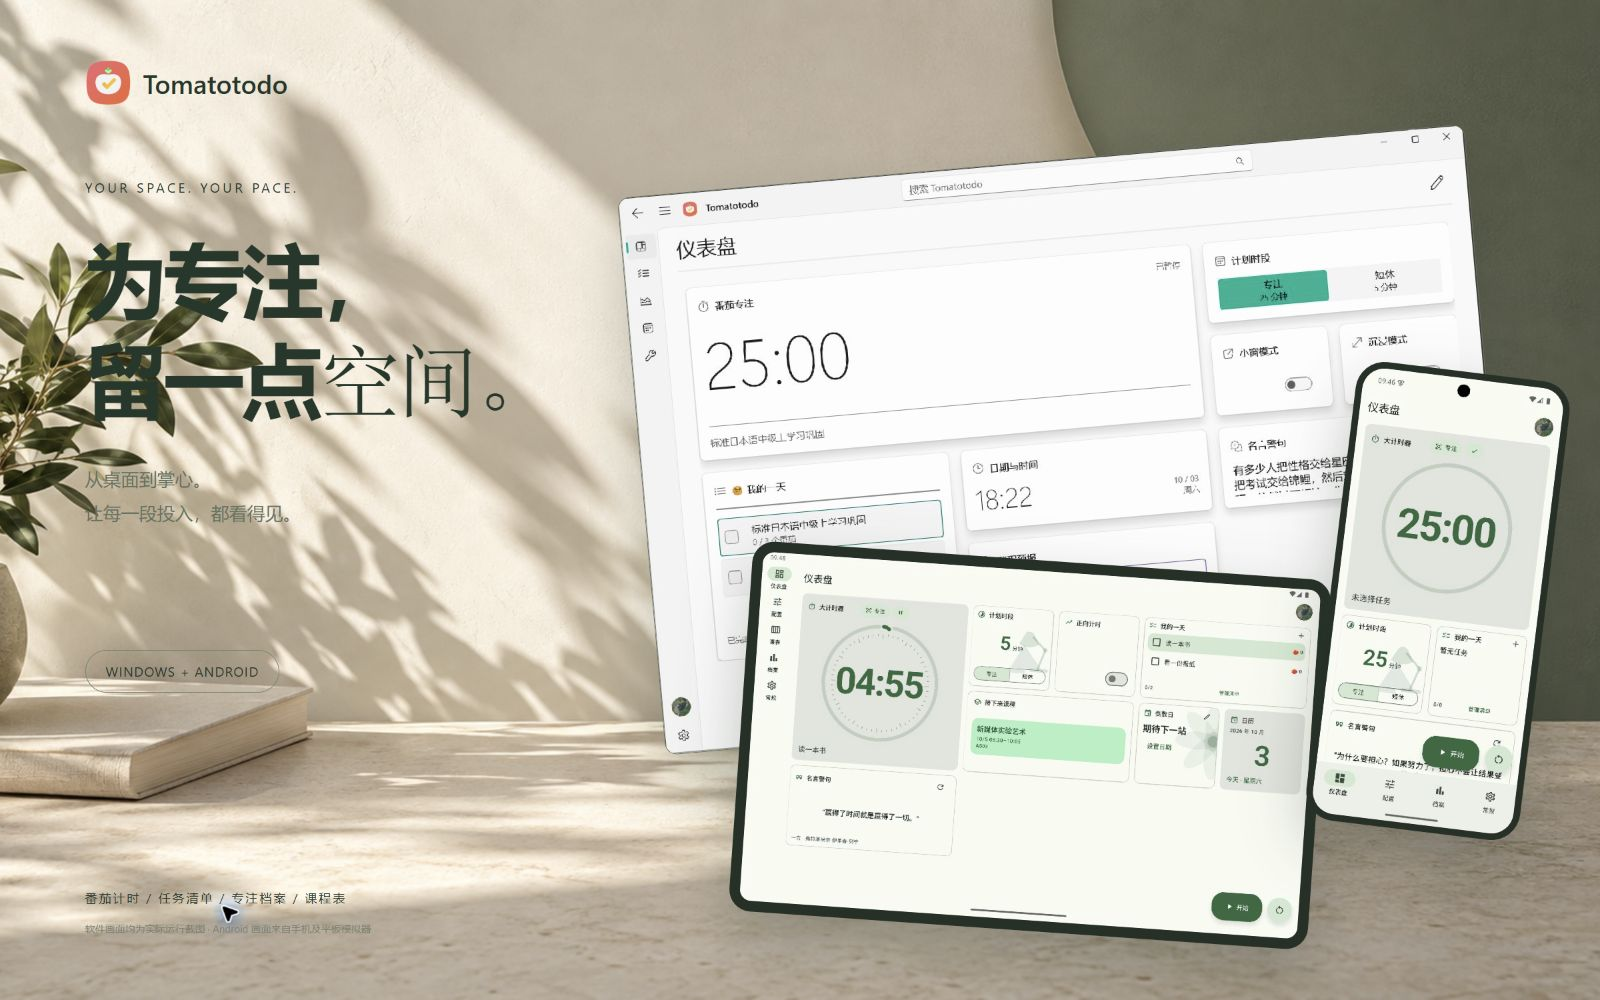
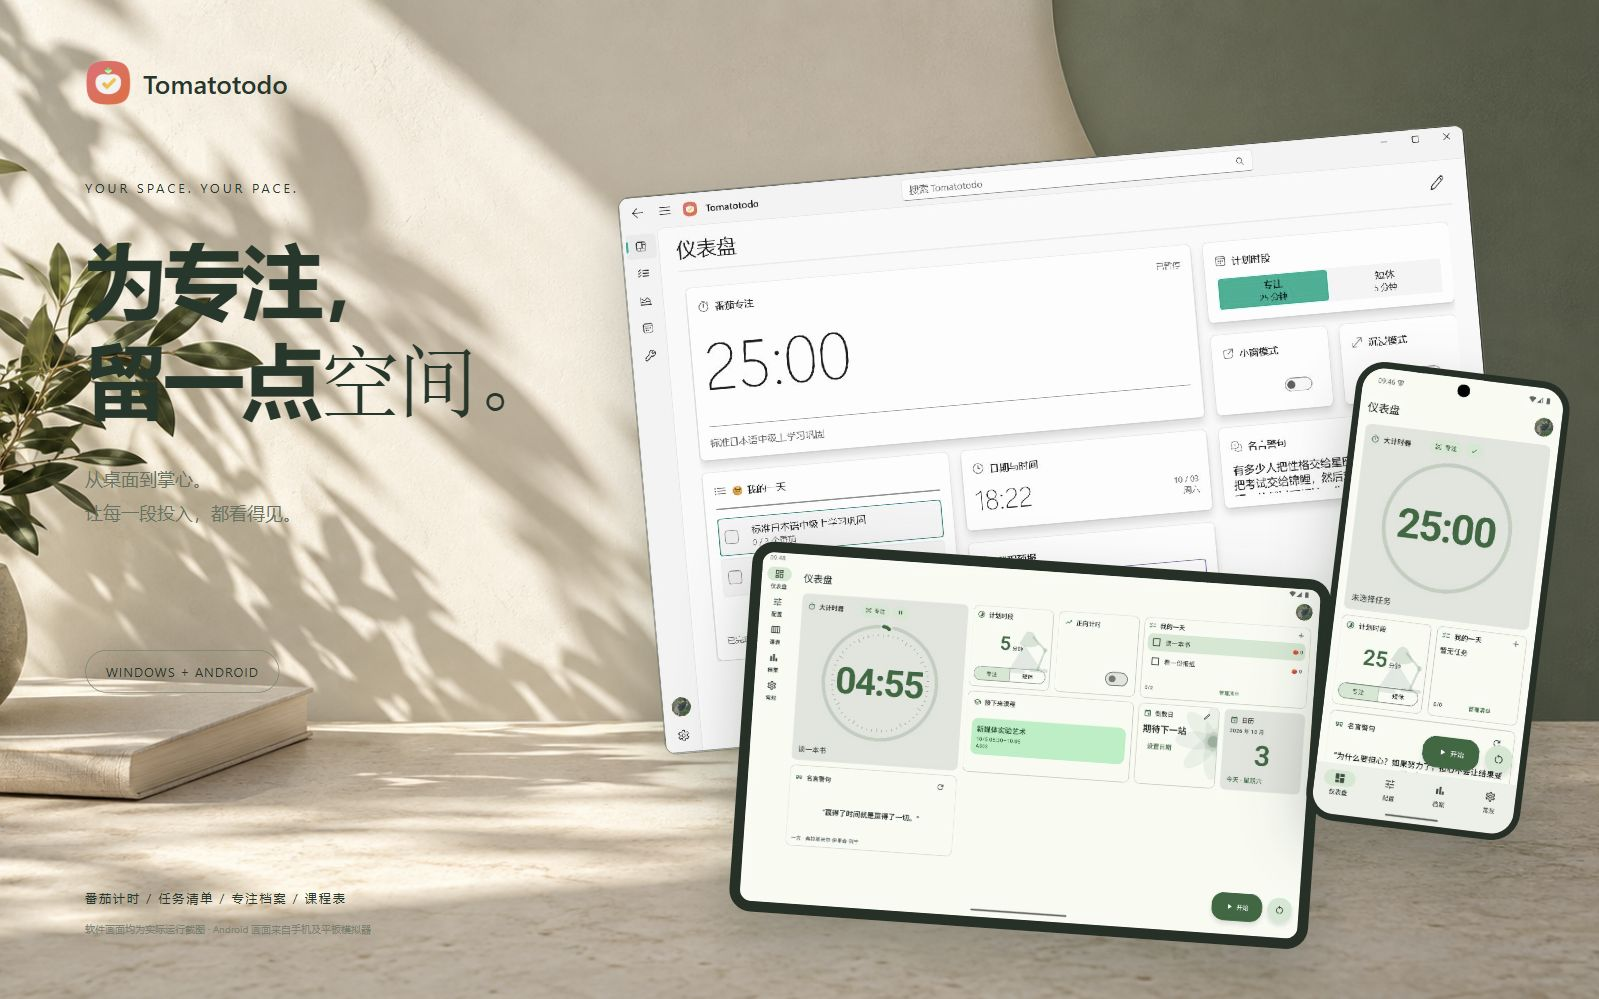
fix: export promotional cover without browser cursor

diff --git a/Website/poster.html b/Website/poster.html
@@ -1,3 +1,3 @@
 <!doctype html><html lang="zh-CN"><head><meta charset="utf-8"><meta name="viewport" content="width=device-width,initial-scale=1"><title>Tomatotodo · 实机宣传海报</title><style>
-*{box-sizing:border-box}body{margin:0;background:#eeeede;color:#24382b;font-family:'Segoe UI','Microsoft YaHei',sans-serif}.poster{width:1600px;height:1000px;position:relative;overflow:hidden;background:#eeeede url('assets/campaign-background.png') center/cover}.brand{position:absolute;left:85px;top:60px;display:flex;align-items:center;gap:12px;font-size:26px;font-weight:600}.brand img{width:46px;height:46px;border-radius:12px}.copy{position:absolute;top:175px;left:85px;z-index:4}.eyebrow{font-size:13px;letter-spacing:3px}h1{font-size:82px;letter-spacing:-4px;font-weight:550;line-height:1.22;margin:30px 0}h1 span{font-family:Georgia,SimSun,serif;font-weight:400}p{font-size:18px;line-height:1.9;color:#66725f}.desktop{position:absolute;width:850px;left:640px;top:160px;transform:rotate(-5deg)}.desktop img{width:100%;border-radius:12px;border:1px solid #67725f;box-shadow:0 25px 60px #20332245}.tablet{position:absolute;width:580px;left:740px;top:560px;transform:rotate(4deg);z-index:2}.tablet img{width:100%;border:11px solid #243026;border-radius:22px;box-shadow:0 25px 60px #20332245}.phone{position:absolute;width:215px;left:1330px;top:370px;transform:rotate(7deg);z-index:3}.phone img{width:100%;border:7px solid #243026;border-radius:29px;box-shadow:0 25px 60px #20332245}.footer{position:absolute;left:85px;bottom:65px;font-size:12px;letter-spacing:2px;z-index:4}.footer small{display:block;letter-spacing:0;margin-top:16px;color:#788170}.stamp{position:absolute;left:85px;top:650px;border:1px solid #73866a;padding:12px 20px;border-radius:30px;font-size:13px;letter-spacing:1px}
+*{box-sizing:border-box;cursor:none!important}body{margin:0;background:#eeeede;color:#24382b;font-family:'Segoe UI','Microsoft YaHei',sans-serif}.poster{width:1600px;height:1000px;position:relative;overflow:hidden;background:#eeeede url('assets/campaign-background.png') center/cover}.brand{position:absolute;left:85px;top:60px;display:flex;align-items:center;gap:12px;font-size:26px;font-weight:600}.brand img{width:46px;height:46px;border-radius:12px}.copy{position:absolute;top:175px;left:85px;z-index:4}.eyebrow{font-size:13px;letter-spacing:3px}h1{font-size:82px;letter-spacing:-4px;font-weight:550;line-height:1.22;margin:30px 0}h1 span{font-family:Georgia,SimSun,serif;font-weight:400}p{font-size:18px;line-height:1.9;color:#66725f}.desktop{position:absolute;width:850px;left:640px;top:160px;transform:rotate(-5deg)}.desktop img{width:100%;border-radius:12px;border:1px solid #67725f;box-shadow:0 25px 60px #20332245}.tablet{position:absolute;width:580px;left:740px;top:560px;transform:rotate(4deg);z-index:2}.tablet img{width:100%;border:11px solid #243026;border-radius:22px;box-shadow:0 25px 60px #20332245}.phone{position:absolute;width:215px;left:1330px;top:370px;transform:rotate(7deg);z-index:3}.phone img{width:100%;border:7px solid #243026;border-radius:29px;box-shadow:0 25px 60px #20332245}.footer{position:absolute;left:85px;bottom:65px;font-size:12px;letter-spacing:2px;z-index:4}.footer small{display:block;letter-spacing:0;margin-top:16px;color:#788170}.stamp{position:absolute;left:85px;top:650px;border:1px solid #73866a;padding:12px 20px;border-radius:30px;font-size:13px;letter-spacing:1px}
 </style></head><body><main class="poster"><div class="brand"><img src="assets/icon.png" alt="">Tomatotodo</div><div class="copy"><span class="eyebrow">YOUR SPACE. YOUR PACE.</span><h1>为专注，<br>留一点<span>空间。</span></h1><p>从桌面到掌心。<br>让每一段投入，都看得见。</p></div><span class="stamp">WINDOWS + ANDROID</span><div class="desktop"><img src="assets/windows-dashboard.png" alt="Windows 实际运行截图"></div><div class="tablet"><img src="assets/tablet-dashboard.png" alt="Android 平板模拟器实际运行截图"></div><div class="phone"><img src="assets/phone-dashboard.png" alt="Android 手机模拟器实际运行截图"></div><div class="footer">番茄计时 / 任务清单 / 专注档案 / 课程表<small>软件画面均为实际运行截图 · Android 画面来自手机及平板模拟器</small></div></main></body></html>
